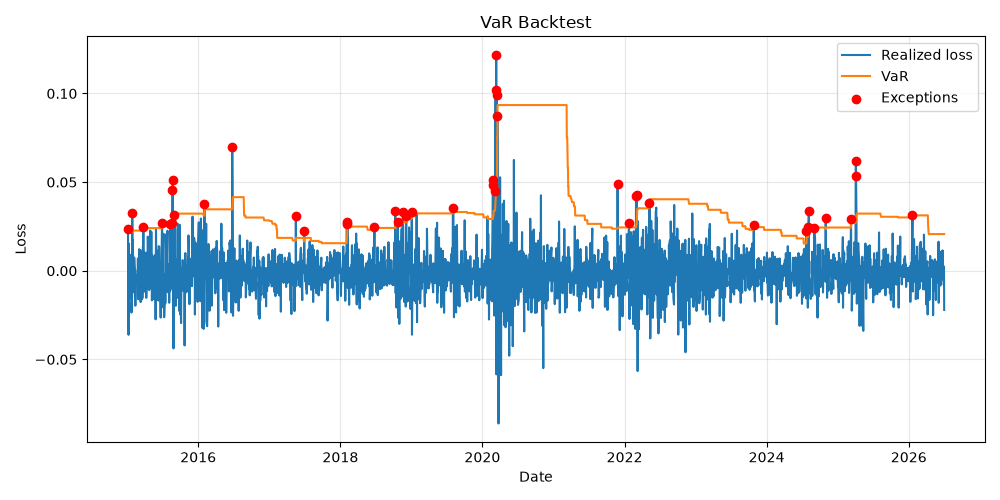
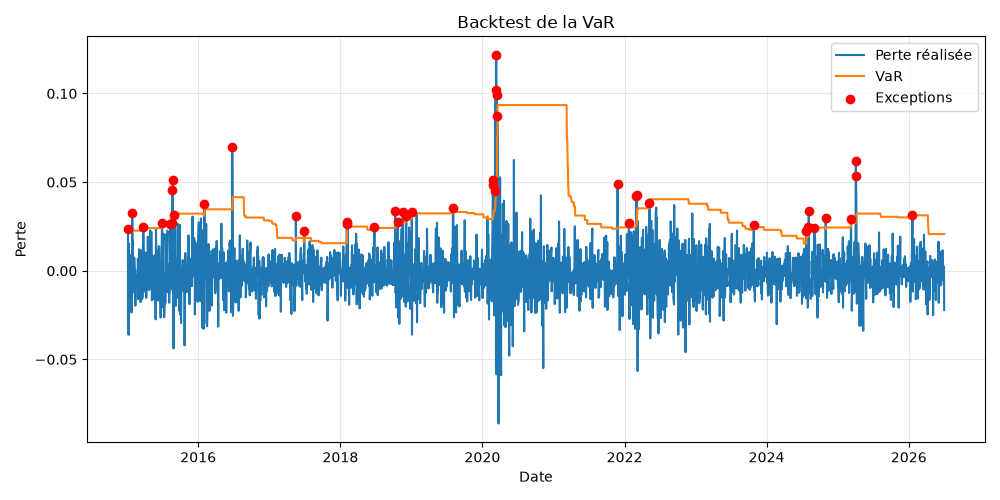
docs & app : accroche README (dashboard, chiffres clés), graphiques en français
Intro du README réécrite pour un lecteur non spécialiste (lien dashboard et
chiffres clés en tête), libellés des graphiques de backtest francisés et
figures régénérées, streamlit épinglé pour un déploiement reproductible,
renvois harmonisés vers SPEC.md, calibrage ES 97,5 % / VaR 99 % précisé
(ratio 1.003 sur le portefeuille, test resserré à 0,5 %), sorties de
notebooks nettoyées de leurs warnings.

Changed region(s): [[0.837, 0.09, 0.992, 0.21], [0.465, 0.03, 0.62, 0.06], [0.0, 0.45, 0.031, 0.51]]

diff --git a/src/riskplatform/reporting/report.py b/src/riskplatform/reporting/report.py
@@ -89,7 +89,7 @@ def plot_var_backtest(
     losses = -realized * notional
 
     fig, ax = plt.subplots(figsize=(10, 5))
-    ax.plot(common_index, losses, label="Realized loss", color="tab:blue", linewidth=1.5)
+    ax.plot(common_index, losses, label="Perte réalisée", color="tab:blue", linewidth=1.5)
     ax.plot(common_index, var, label="VaR", color="tab:orange", linewidth=1.5)
 
     exception_dates = common_index[exc.to_numpy() == 1]
@@ -102,9 +102,9 @@ def plot_var_backtest(
             zorder=3,
         )
 
-    ax.set_title("VaR Backtest")
+    ax.set_title("Backtest de la VaR")
     ax.set_xlabel("Date")
-    ax.set_ylabel("Loss")
+    ax.set_ylabel("Perte")
     ax.legend()
     ax.grid(True, alpha=0.3)
     fig.tight_layout()

diff --git a/src/riskplatform/stress/engine.py b/src/riskplatform/stress/engine.py
@@ -265,8 +265,9 @@ def run_stress_suite(
 ) -> StressSuite:
     """Applique le catalogue de scénarios et agrège les deux panneaux.
 
-    var_ref=None : VaR historique `alpha` plein échantillon sur r_p (référence
-    « capital VaR » du PLAN §3-B3) ; ratio_capital = loss / (3·sqrt(10)·var_ref).
+    var_ref=None : VaR historique `alpha` plein échantillon sur r_p, la
+    référence « capital VaR » du rapport de stress (SPEC.md B3.5) ;
+    ratio_capital = loss / (3·sqrt(10)·var_ref).
     IndexShock présent sans benchmark_returns -> ValueError (levée à
     l'application du scénario).
     """

diff --git a/app/views/var_es.py b/app/views/var_es.py
@@ -96,7 +96,7 @@ tail_fig.axes[0].set_xlim(float(pnl.min()) * 1.05, -0.5 * _to_1d(rows["parametri
 tail_fig.axes[0].set_ylim(0, 6)
 st.pyplot(tail_fig)
 st.caption(
-    "La normale sous-estime la queue : le quantile Student-t (nu ≈ 6-8 estimé "
-    "par MLE) est plus à gauche, surtout à 99 %. C'est ce qui divise par ~2 "
+    "La normale sous-estime la queue : le quantile Student-t (nu ≈ 6,5 estimé "
+    "par MLE sur les résidus) est plus à gauche, surtout à 99 %. C'est ce qui divise par ~2 "
     "l'écart de couverture au backtest (brique 2)."
 )

diff --git a/tests/test_es.py b/tests/test_es.py
@@ -141,12 +141,14 @@ def test_es_conditional_dominates_var_conditional():
 
 
 def test_es_975_normal_approximates_var_99_normal():
+    # L'écart théorique sous loi normale est ~0,5 % (ratio ≈ 1,005) : le seuil
+    # 0,5 % verrouille l'affirmation « quasi égaux » du README.
     pnl = _pnl()
 
     es_975 = es_parametric(pnl, alpha=0.975)
     var_99 = var_parametric(pnl, alpha=0.99)
 
-    assert es_975 == pytest.approx(var_99, rel=0.01)
+    assert es_975 == pytest.approx(var_99, rel=0.005)
 
 
 # ---------- MC vs fermé, erreurs ----------

diff --git a/src/riskplatform/stress/scenarios.py b/src/riskplatform/stress/scenarios.py
@@ -73,7 +73,8 @@ class RiskParamShock:
 
     Le mélange convexe avec J (matrice de 1) garantit une matrice de
     corrélation semi-définie positive pour tout s dans [0, 1] ; s=1 est le
-    « corrélations -> 1 » du PLAN. Sortie = VaR/ES paramétriques stressées.
+    scénario « corrélations -> 1 » (SPEC.md B3.4). Sortie = VaR/ES
+    paramétriques stressées.
     """
 
     name: str

diff --git a/src/riskplatform/volatility/garch.py b/src/riskplatform/volatility/garch.py
@@ -18,7 +18,8 @@ Prévision à horizon h (mean-reversion géométrique) :
     sigma²_{t+h} = sigma²_LT + (alpha+beta)^(h-1) · (sigma²_{t+1} - sigma²_LT)
 
 Sources : Bollerslev (1986) ; Hull ; McNeil-Frey-Embrechts §4. La lib `arch`
-n'est utilisée que comme oracle de validation dans les tests (PLAN §1.5).
+n'est utilisée que comme oracle de validation dans les tests (SPEC.md B1.6),
+jamais importée par le code de production.
 """
 
 from __future__ import annotations

diff --git a/tests/test_etude_2020.py b/tests/test_etude_2020.py
@@ -1,6 +1,6 @@
 """Verrouillage du résultat phare (SPEC.md B1.5) sur le snapshot committé.
 
-PLAN §8 : pas de résultat affiché sans test. Les verdicts du tableau README
+Règle du projet : pas de résultat affiché sans test. Les verdicts du tableau README
 (étude 2019–2021, VaR 99 %) sont vérifiés ici sur le snapshot figé
 data/cache/ (2026-07-06) — offline, déterministe. Le rolling GARCH complet
 tourne en ~2 s : inclus en CI (amendement B1.8 #8, seuil 5 min).

diff --git a/tests/test_etude_stress.py b/tests/test_etude_stress.py
@@ -1,6 +1,6 @@
 """Verrouillage des verdicts de l'étude B3 (SPEC.md B3.7) sur le snapshot committé.
 
-PLAN §8 : pas de résultat affiché sans test. Les chiffres du notebook
+Règle du projet : pas de résultat affiché sans test. Les chiffres du notebook
 etude_stress_traffic_light et du README (stress + traffic light) sont
 vérifiés ici sur data/cache/ (snapshot 2026-07-06, benchmark ^STOXX50E
 inclus) — offline, déterministe.

diff --git a/README.md b/README.md
@@ -2,6 +2,27 @@
 
 ![CI](https://github.com/IAsport/risk-platform/actions/workflows/ci.yml/badge.svg)
 
+**➜ Dashboard en ligne : [risk-platform.streamlit.app](https://risk-platform.streamlit.app/)**
+— tous les résultats consultables sans lire une ligne de code.
+
+Combien ce portefeuille d'un million d'euros peut-il perdre demain, et comment
+sait-on que ce chiffre est fiable ? Ce projet calcule cette perte potentielle
+(la **Value-at-Risk**) par trois méthodes, confronte chacune à 12 ans
+d'histoire réelle — dont le krach COVID de mars 2020, où la méthode standard
+échoue — puis la répare pas à pas et chiffre ce qui reste hors de portée des
+modèles.
+
+Trois chiffres à retenir :
+
+- **Mars 2020 rejoué : −36,9 % du portefeuille en un mois, soit 1,19× le proxy
+  de capital réglementaire** calibré sur la VaR — ce que le stress testing
+  chiffre et que la VaR ne voit pas.
+- **Pendant le krach, la VaR standard est percée 9 fois en six semaines** ; la
+  VaR à volatilité conditionnelle (EWMA/GARCH) encaisse les quatre premiers
+  jours du choc, puis plus aucune exception du reste de la crise.
+- **Au traffic light de Bâle, la VaR standard reste en zone rouge 27 mois**
+  (capital majoré d'un tiers) ; la version conditionnelle en sort en 5 mois.
+
 Une plateforme de mesure des risques de marché construite brique par brique à
 partir d'un moteur de Value-at-Risk. L'état actuel (briques 0–4) : VaR par
 trois méthodes, **volatilité conditionnelle EWMA et GARCH(1,1) écrits à la
@@ -13,8 +34,8 @@ Kupiec/Christoffersen, lecture réglementaire FRTB, **stress testing**
 paramètres), **traffic light bâlois** reliant le backtest au multiplicateur
 de capital, un **dashboard Streamlit** de cinq pages et un **rapport de
 risque quotidien** HTML type middle office — le tout packagé, configurable en
-YAML et vérifié par une CI qui rejoue tous les résultats publiés (dashboard
-compris) sur un snapshot de données committé.
+YAML et vérifié par une CI qui rejoue les verdicts des trois études et chaque
+page du dashboard sur un snapshot de données committé.
 
 L'objectif n'est pas d'empiler des formules : chaque mesure produite est
 **confrontée à sa propre fiabilité** par backtesting — y compris quand le
@@ -149,8 +170,8 @@ toujours pas à 99 % en crise.** Le degré de liberté estimé par MLE sur les
 résidus est **ν ≈ 6,5** (sensibilité : à ν±2, la VaR 99 % ne bouge que de
 ∓2 à 3 % — le choix exact de ν n'est pas ce qui fait le modèle). La VaR monte
 de ~10 %, les exceptions passent de 21 à 19 (EWMA) et 18 (GARCH) sur l'étude,
-et de **48 à 37 sur l'échantillon complet** (p-value Kupiec multipliée par
-1 000) — mais le rejet demeure. Les exceptions restantes sont des **sauts
+et de **48 à 37 sur l'échantillon complet** (p-value Kupiec améliorée de plus
+de deux ordres de grandeur) — mais le rejet demeure. Les exceptions restantes sont des **sauts
 « jour 1 »** depuis un régime calme (σ_t a un jour de retard par
 construction), et le MLE de ν calibre toute la densité, pas la queue à 1 %
 (le domaine de l'EVT, hors périmètre). À 95 %, tout passe. Diagnostic complet
@@ -174,7 +195,7 @@ validées contre intégration numérique) :
 
 | Loi | VaR 99 % | ES 97,5 % | ES/VaR |
 |---|---|---|---|
-| Normale | 0.0289 | 0.0290 | **1.001** |
+| Normale | 0.0289 | 0.0290 | **1.003** |
 | Student-t inconditionnelle (ν = 3,8) | 0.0330 | 0.0354 | 1.07 |
 | Historique | 0.0328 | 0.0375 | 1.14 |
 
@@ -188,8 +209,9 @@ dit, le GARCH « explique » une partie des queues épaisses ; la t n'a plus à
 porter que le reste.*
 
 La première ligne est le **calibrage bâlois rendu visible** : sous loi
-normale, ES 97,5 % = VaR 99 % à 0,1 % près (transition volontairement neutre,
-vérifiée par un test). Sous queues épaisses, l'ES décolle de 7 à 14 % : un
+normale, ES 97,5 % ≈ VaR 99 % (écart de 0,3 % sur ce portefeuille — la
+transition réglementaire est volontairement neutre, vérifiée par un test à
+0,5 % près). Sous queues épaisses, l'ES décolle de 7 à 14 % : un
 portefeuille gaussien ne « voit » pas la migration réglementaire, un
 portefeuille réel, si. Le backtest d'ES (**Z₂ d'Acerbi-Székely**, p-value par
 simulation sous H0) complète le tableau avec un verdict honnête : sur la